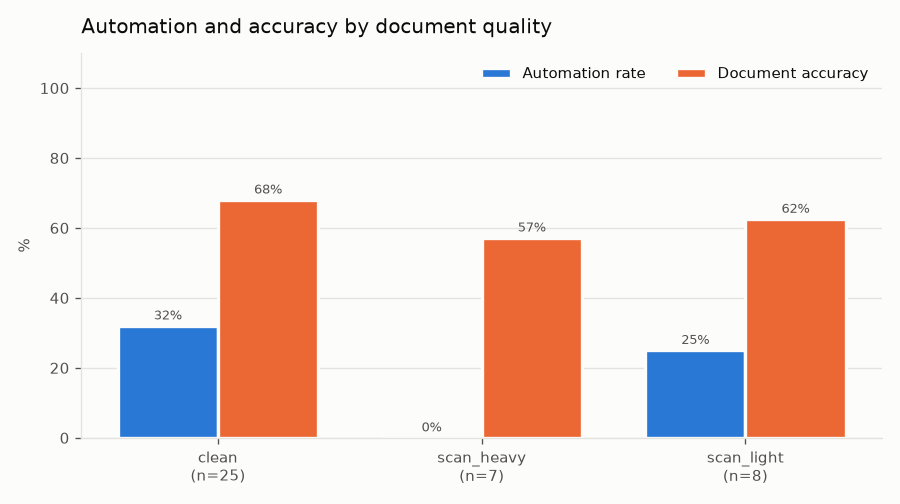
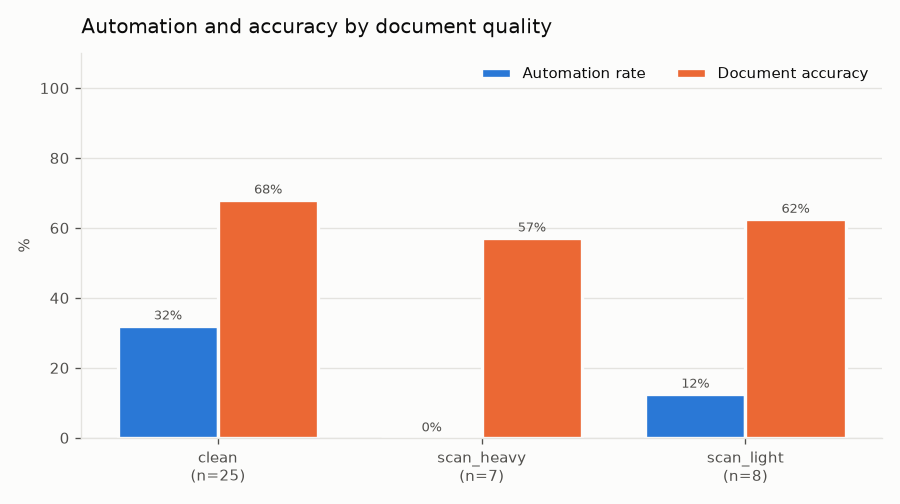
docs: refresh example report and README numbers after the parser fix

Changed region(s): [[0.7156, 0.6548, 0.84, 0.8036]]

diff --git a/docs/example-report/report.md b/docs/example-report/report.md
@@ -1,4 +1,4 @@
-# Extraction QC report: run `20261105-201655-mock`
+# Extraction QC report: run `20261105-203727-mock`
 
 > **Simulated extractor.** These numbers come from the offline mock provider, which returns ground truth with injected LLM/OCR-style errors. They measure the QC pipeline (validation, confidence, routing), not a real model.
 
@@ -7,12 +7,12 @@
 | Metric | Value | Meaning |
 |---|---|---|
 | Documents | 40 | Documents in the run. |
-| Automation rate | 25.0% | Share of documents auto-approved. |
+| Automation rate | 22.5% | Share of documents auto-approved. |
 | Auto-approved accuracy | 100.0% | Share of auto-approved documents whose critical fields are all correct. |
 | Error catch rate | 100.0% | Share of documents with a wrong critical field that were sent to review. |
 | Fault catch rate | 100.0% | Share of documents with a printed fault (wrong total, bad NPWP...) sent to review. |
 | Document accuracy | 65.0% | Share of documents with every critical field correct. |
-| Line-item F1 | 87.4% | Line items extracted with every field correct. |
+| Line-item F1 | 85.6% | Line items extracted with every field correct. |
 
 Review threshold: **0.70** (document confidence).
 
@@ -55,19 +55,19 @@ Review threshold: **0.70** (document confidence).
 |---|---|---|---|
 | clean | 25 | 32.0% | 68.0% |
 | scan_heavy | 7 | 0.0% | 57.1% |
-| scan_light | 8 | 25.0% | 62.5% |
+| scan_light | 8 | 12.5% | 62.5% |
 
 ### By source
 
 | source | n | Automation rate | Document accuracy |
 |---|---|---|---|
-| synthetic | 40 | 25.0% | 65.0% |
+| synthetic | 40 | 22.5% | 65.0% |
 
 ### By template
 
 | template | n | Automation rate | Document accuracy |
 |---|---|---|---|
-| klasik | 17 | 29.4% | 64.7% |
+| klasik | 17 | 23.5% | 64.7% |
 | minimal | 10 | 30.0% | 60.0% |
 | modern | 13 | 15.4% | 69.2% |
 
@@ -79,25 +79,25 @@ Raising the threshold sends more documents to review and makes the auto-approved
 
 | Threshold | Automation rate | Auto-approved accuracy |
 |---|---|---|
-| 0.05 | 37.5% | 93.3% |
-| 0.10 | 37.5% | 93.3% |
-| 0.15 | 37.5% | 93.3% |
-| 0.20 | 37.5% | 93.3% |
-| 0.25 | 37.5% | 93.3% |
-| 0.30 | 37.5% | 93.3% |
-| 0.35 | 37.5% | 93.3% |
-| 0.40 | 37.5% | 93.3% |
-| 0.45 | 25.0% | 100.0% |
-| 0.50 | 25.0% | 100.0% |
-| 0.55 | 25.0% | 100.0% |
-| 0.60 | 25.0% | 100.0% |
-| 0.65 | 25.0% | 100.0% |
-| 0.70 | 25.0% | 100.0% |
-| 0.75 | 25.0% | 100.0% |
-| 0.80 | 25.0% | 100.0% |
-| 0.85 | 25.0% | 100.0% |
-| 0.90 | 25.0% | 100.0% |
-| 0.95 | 25.0% | 100.0% |
+| 0.05 | 35.0% | 92.9% |
+| 0.10 | 35.0% | 92.9% |
+| 0.15 | 35.0% | 92.9% |
+| 0.20 | 35.0% | 92.9% |
+| 0.25 | 35.0% | 92.9% |
+| 0.30 | 35.0% | 92.9% |
+| 0.35 | 35.0% | 92.9% |
+| 0.40 | 35.0% | 92.9% |
+| 0.45 | 22.5% | 100.0% |
+| 0.50 | 22.5% | 100.0% |
+| 0.55 | 22.5% | 100.0% |
+| 0.60 | 22.5% | 100.0% |
+| 0.65 | 22.5% | 100.0% |
+| 0.70 | 22.5% | 100.0% |
+| 0.75 | 22.5% | 100.0% |
+| 0.80 | 22.5% | 100.0% |
+| 0.85 | 22.5% | 100.0% |
+| 0.90 | 22.5% | 100.0% |
+| 0.95 | 22.5% | 100.0% |
 
 ## Calibration
 

diff --git a/README.md b/README.md
@@ -82,7 +82,7 @@ Every setting can be changed through `DOCEX_*` environment variables or a `.env`
 
 | Dataset | Docs | Automation rate | Auto-approved accuracy | Error catch rate | Fault catch rate | Document accuracy | Line-item F1 |
 |---|---|---|---|---|---|---|---|
-| Synthetic invoices (`docex demo`) | 40 | 25.0% | **100%** | **100%** | **100%** | 65.0% | 87.4% |
+| Synthetic invoices (`docex demo`) | 40 | 22.5% | **100%** | **100%** | **100%** | 65.0% | 85.6% |
 | CORD receipts (`--source cord`) | 50 | 72.0% | **100%** | **100%** | n/a | 92.0% | 88.9% |
 
 What these say:
@@ -92,8 +92,8 @@ What these say:
   amount), went to the review queue.
 - **The router is conservative.** On invoices it also sends correct documents to review, mostly
   because a line item failed a rule or the two extraction attempts disagreed. The trade-off curve
-  shows the price of automating more: at threshold 0.30 automation rises to 37.5% and
-  auto-approved accuracy falls to 93.3%.
+  shows the price of automating more: at threshold 0.30 automation rises to 35.0% and
+  auto-approved accuracy falls to 92.9%.
 - **Confidence is under-confident, which is safe:** fields scored around 0.5 were right 96% of
   the time. That is the first thing to tune once a real model is plugged in.
 
@@ -211,7 +211,7 @@ catches exceptions, so one bad file never stops a run.
 ## Development
 
 ```bash
-uv run pytest            # 179 tests, no network needed
+uv run pytest            # 186 tests, no network needed
 uv run ruff check
 uv run ruff format --check
 ```
